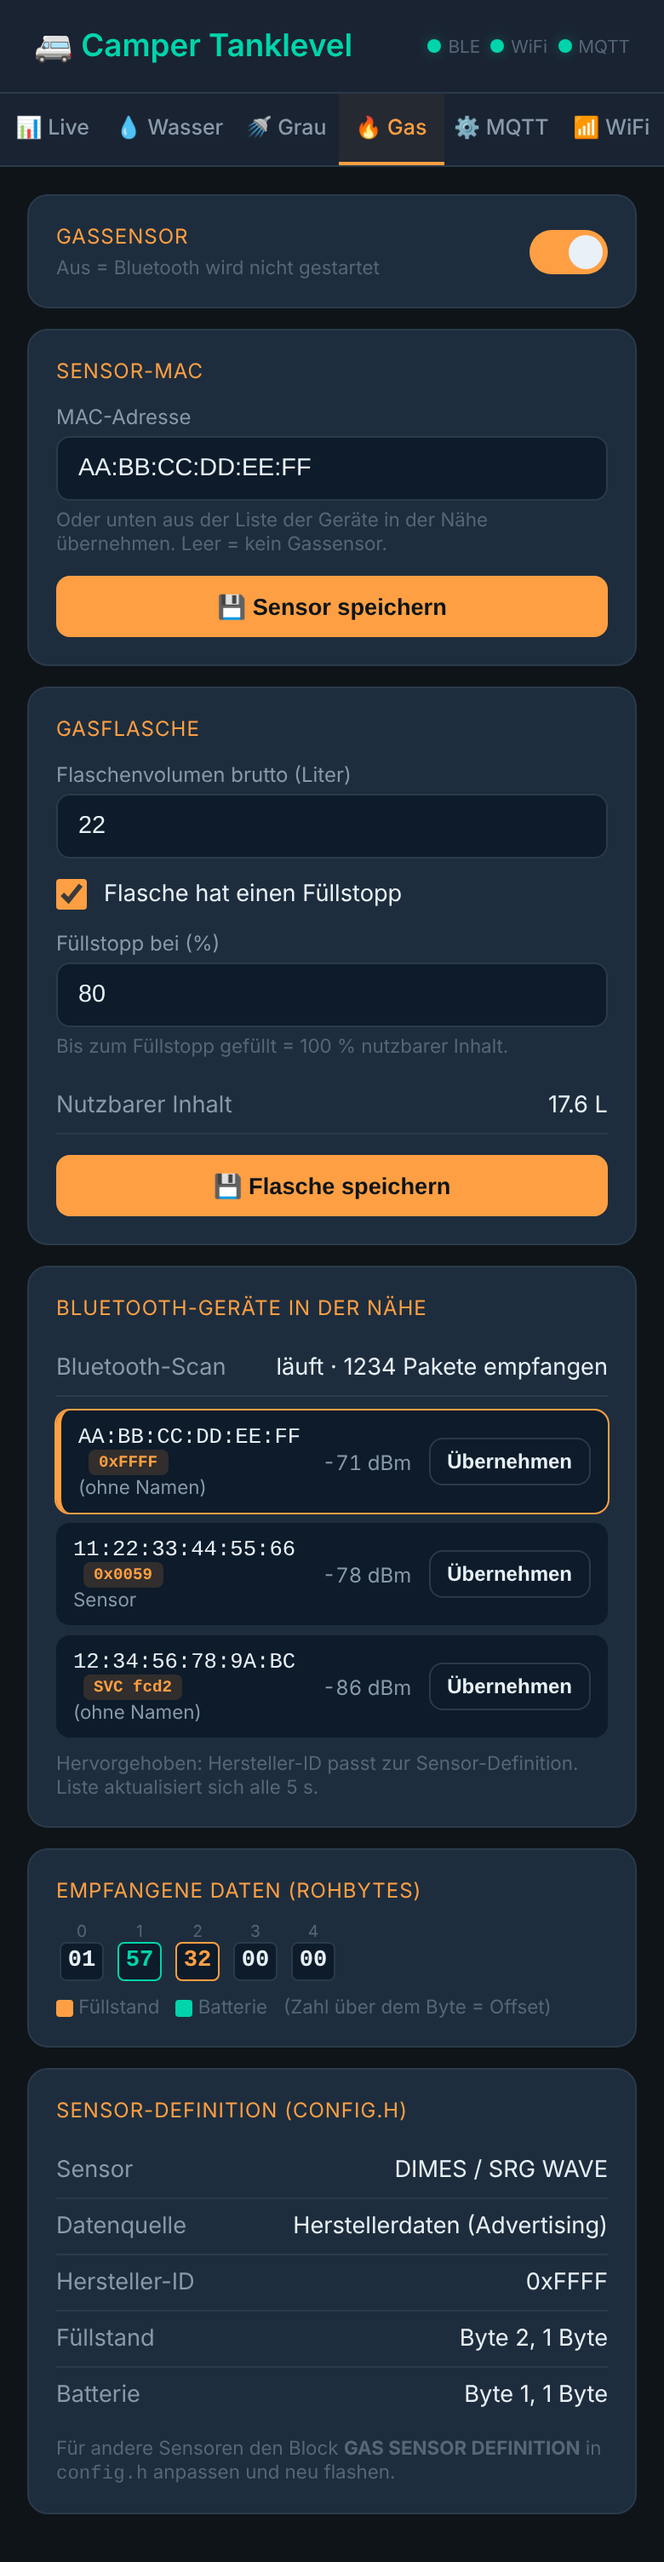
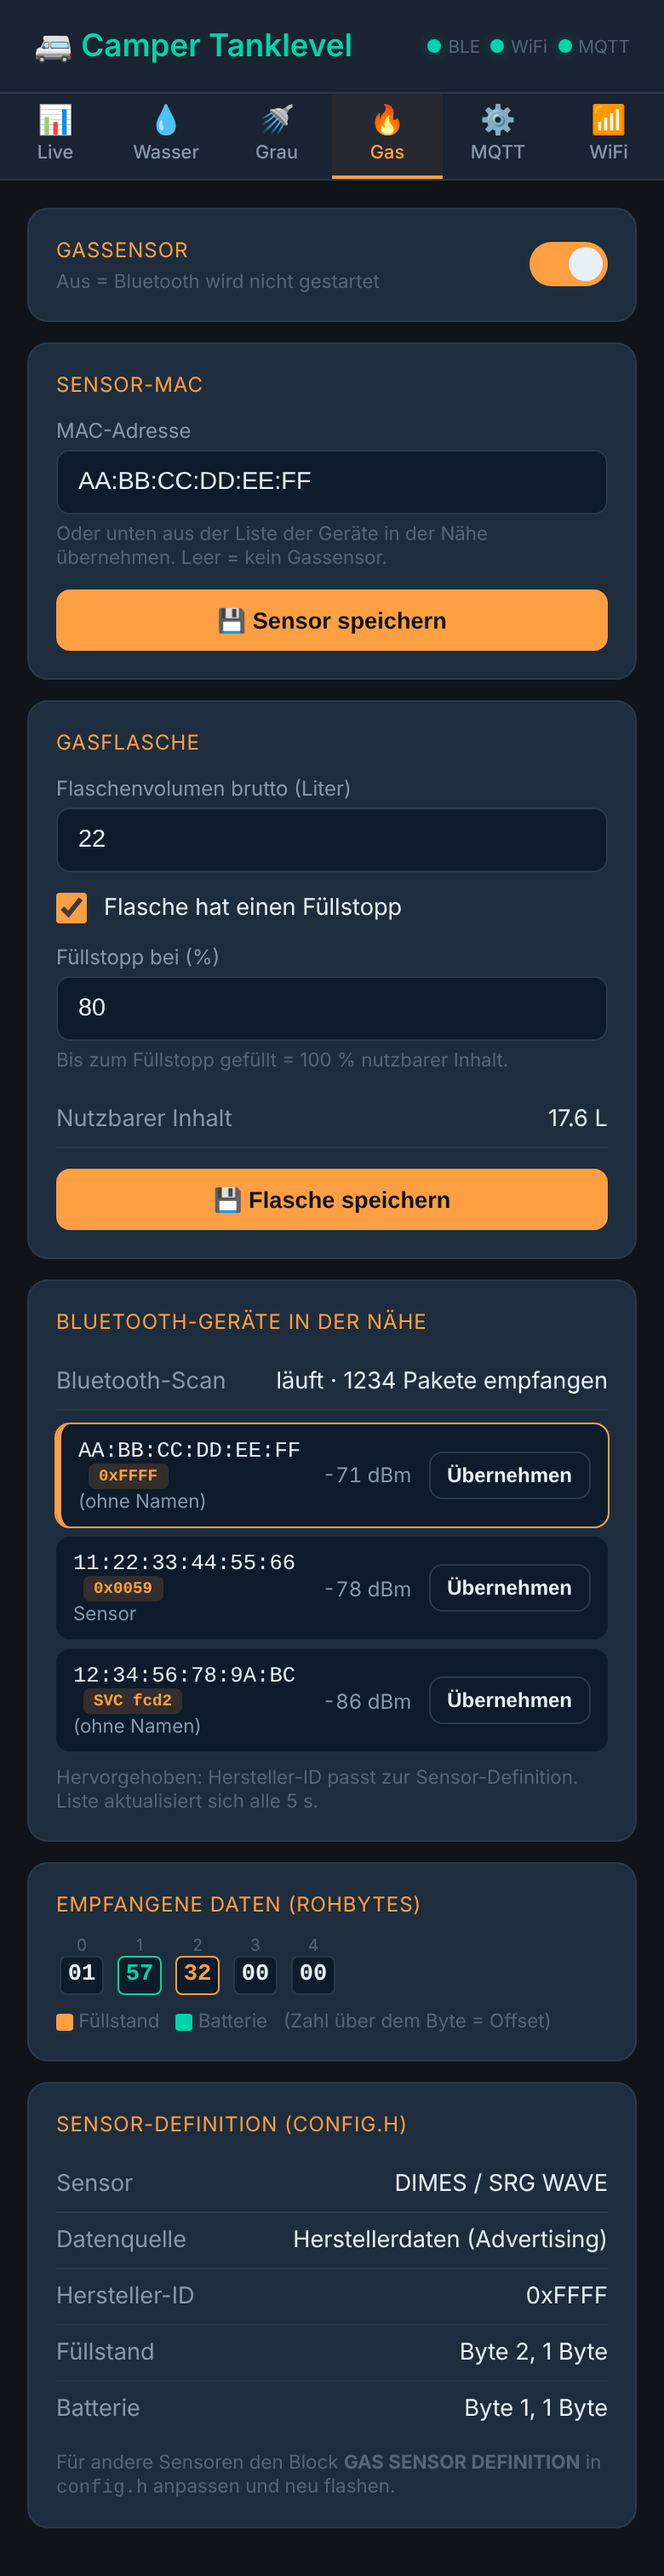
Web UI: gzip compression and compact tab bar
- Web UI source moves to web/index.html; data/ only holds index.html.gz
  (about 1/4 of the size). WiFi runs in modem sleep for BLE coexistence,
  so the smaller page loads much faster, especially on phones. An
  uncompressed index.html is still served for older filesystem images.
- PlatformIO pre-script gzip_web.py regenerates the .gz on every build.
- Tabs show the icon above the label and fit down to 320 px; the header
  title stays on one line on small phones. Screenshots re-rendered.

Claude-Session: https://claude.ai/code/session_01KAMQ1XBs6Wu85SXXrHYjm7

diff --git a/_arduino/camper_tanklevel/web/index.html b/_arduino/camper_tanklevel/web/index.html
@@ -40,10 +40,13 @@ body {
 .status-dot.active { background: var(--success); box-shadow: 0 0 8px var(--water-glow); }
 .status-dot.warning { background: var(--warning); }
 .tabs { display: flex; background: var(--bg-secondary); border-bottom: 1px solid var(--border); overflow-x: auto; }
+/* Icon above the label: all tabs fit even on small phones (320 px) */
 .tab {
-    flex: 1; padding: 12px 6px; text-align: center; font-size: 0.78rem; font-weight: 500;
+    flex: 1; min-width: 0; padding: 8px 1px 7px; text-align: center; font-size: 0.68rem; font-weight: 500; line-height: 1.2;
+    display: flex; flex-direction: column; align-items: center; gap: 3px;
     color: var(--text-secondary); cursor: pointer; border-bottom: 2px solid transparent; transition: all 0.2s; white-space: nowrap;
 }
+.tab .ico { font-size: 1.05rem; line-height: 1; }
 .tab.active { color: var(--accent); border-bottom-color: var(--accent); background: rgba(0,212,170,0.05); }
 .tab.gas.active { color: var(--gas); border-bottom-color: var(--gas); background: rgba(255,159,67,0.05); }
 .tab-content { display: none; padding: 16px; }
@@ -169,6 +172,12 @@ code { font-family: ui-monospace, Menlo, monospace; }
 .toast { position: fixed; bottom: 80px; left: 50%; transform: translateX(-50%) translateY(100px); background: var(--bg-card); border: 1px solid var(--accent); border-radius: 8px; padding: 10px 20px; font-size: 0.85rem; color: var(--accent); opacity: 0; transition: all 0.3s; z-index: 999; }
 .toast.show { transform: translateX(-50%) translateY(0); opacity: 1; }
 
+/* Small phones: keep the title on one line */
+@media (max-width: 374px) {
+    .header { padding: 14px 12px; gap: 8px; }
+    .header h1 { font-size: 1rem; white-space: nowrap; }
+    .status-dots { gap: 4px; font-size: 0.6rem; }
+}
 @media (min-width: 600px) { body { display: flex; justify-content: center; } .app-wrap { width: 100%; max-width: 520px; } }
 </style>
 </head>
@@ -184,12 +193,12 @@ code { font-family: ui-monospace, Menlo, monospace; }
     </div>
 
     <div class="tabs">
-        <div class="tab active" data-tab="live">📊 Live</div>
-        <div class="tab" data-tab="water">💧 Wasser</div>
-        <div class="tab grey" data-tab="grey">🚿 Grau</div>
-        <div class="tab gas" data-tab="gas">🔥 Gas</div>
-        <div class="tab" data-tab="mqtt">⚙ MQTT</div>
-        <div class="tab" data-tab="wifi">📶 WiFi</div>
+        <div class="tab active" data-tab="live"><span class="ico">📊</span><span>Live</span></div>
+        <div class="tab" data-tab="water"><span class="ico">💧</span><span>Wasser</span></div>
+        <div class="tab grey" data-tab="grey"><span class="ico">🚿</span><span>Grau</span></div>
+        <div class="tab gas" data-tab="gas"><span class="ico">🔥</span><span>Gas</span></div>
+        <div class="tab" data-tab="mqtt"><span class="ico">⚙</span><span>MQTT</span></div>
+        <div class="tab" data-tab="wifi"><span class="ico">📶</span><span>WiFi</span></div>
     </div>
 
     <!-- LIVE TAB -->

diff --git a/_arduino/camper_tanklevel/webserver.cpp b/_arduino/camper_tanklevel/webserver.cpp
@@ -242,12 +242,19 @@ void webserverInit() {
 
     // Serve ONLY index.html. Serving the whole filesystem would expose /config.json
     // (WiFi and MQTT credentials) to everybody in the network.
+    // The web UI is stored gzip compressed (about 1/4 of the size): loads much faster,
+    // because WiFi runs in modem sleep for the Bluetooth coexistence.
     server.on("/", HTTP_GET, [](AsyncWebServerRequest* request) {
-        if (fsReady && LittleFS.exists("/index.html")) {
-            request->send(LittleFS, "/index.html", "text/html");
+        if (fsReady && LittleFS.exists("/index.html.gz")) {
+            AsyncWebServerResponse* response = request->beginResponse(LittleFS, "/index.html.gz", "text/html");
+            response->addHeader("Content-Encoding", "gzip");
+            response->addHeader("Cache-Control", "no-cache");
+            request->send(response);
+        } else if (fsReady && LittleFS.exists("/index.html")) {
+            request->send(LittleFS, "/index.html", "text/html");   // Uncompressed (older filesystem image)
         } else {
             request->send(200, "text/html",
-                "<h1>Camper Tanklevel</h1><p>Please upload index.html to LittleFS.</p>");
+                "<h1>Camper Tanklevel</h1><p>Please upload the LittleFS image (data/index.html.gz).</p>");
         }
     });
 

diff --git a/_platformio/gzip_web.py b/_platformio/gzip_web.py
@@ -1,0 +1,20 @@
+# PlatformIO pre-script: compresses web/index.html into data/index.html.gz,
+# so "Upload Filesystem Image" always ships the current web UI.
+import gzip
+import os
+
+Import("env")  # noqa: F821 (provided by PlatformIO)
+
+project = env.subst("$PROJECT_DIR")  # noqa: F821
+src = os.path.join(project, "..", "_arduino", "camper_tanklevel", "web", "index.html")
+dst = os.path.join(project, "..", "_arduino", "camper_tanklevel", "data", "index.html.gz")
+
+with open(src, "rb") as f:
+    html = f.read()
+# mtime=0 keeps the output identical for identical input (no git noise)
+data = gzip.compress(html, compresslevel=9, mtime=0)
+old = open(dst, "rb").read() if os.path.exists(dst) else b""
+if data != old:
+    with open(dst, "wb") as f:
+        f.write(data)
+    print("[web] index.html.gz updated (%d -> %d bytes)" % (len(html), len(data)))

diff --git a/_arduino/camper_tanklevel/config.h b/_arduino/camper_tanklevel/config.h
@@ -6,7 +6,7 @@
 // ============================================================
 // GENERAL CONSTANTS
 // ============================================================
-#define FW_VERSION            "1.2.0"
+#define FW_VERSION            "1.2.1"
 
 #define DEFAULT_AP_SSID       "Camper-Tanklevel" // Base name; "-XXXXXX" (last 3 MAC bytes) is appended
 #define DEFAULT_AP_PASSWORD   "tanklevel1234"    // Test placeholder (min. 8 characters) - change in the web UI

diff --git a/README.md b/README.md
@@ -39,7 +39,9 @@ Die Bilder zeigen Beispieldaten.
 ## Ordner
 
 ```
-_arduino/camper_tanklevel/   Sketch für die Arduino IDE (.ino + .cpp/.h + data/index.html)
+_arduino/camper_tanklevel/        Sketch für die Arduino IDE (.ino + .cpp/.h)
+_arduino/camper_tanklevel/web/    Quelle der Web-Oberfläche (index.html)
+_arduino/camper_tanklevel/data/   LittleFS-Inhalt: index.html.gz (komprimiert, wird hochgeladen)
 _platformio/                 platformio.ini, nutzt dieselben Quellen
 ```
 
@@ -49,7 +51,7 @@ _platformio/                 platformio.ini, nutzt dieselben Quellen
 | `water_sensor.cpp` | ADC für Frisch- und Grauwasser, gleitender Mittelwert, Interpolation über die Matrix |
 | `gas_sensor.cpp` | NimBLE-Scan, Dekodierung, Geräteliste, Füllstopp |
 | `mqtt_ha.cpp` | MQTT, HA-Discovery, Filter-Schalter |
-| `webserver.cpp` | Web-UI, REST-API, Konfiguration in LittleFS |
+| `webserver.cpp` | Web-UI (gzip), REST-API, Konfiguration in LittleFS |
 | `wifi_manager.cpp` | WLAN mit AP-Fallback (Modem-Sleep für WiFi/BLE-Koexistenz) |
 
 ## Hardware
@@ -103,7 +105,16 @@ Board-Paket: esp32 von Espressif, 3.x (getestet 3.3.9).
 2. `camper_tanklevel.ino` öffnen, Partition Scheme prüfen, hochladen.
 3. Serial Monitor schließen, `Cmd+Shift+P` → **Upload LittleFS to Pico/ESP8266/ESP32** (Plugin [arduino-littlefs-upload](https://github.com/earlephilhower/arduino-littlefs-upload)).
 
-Der LittleFS-Upload überschreibt die gespeicherte Konfiguration. Spätere Firmware-Updates gehen auch per OTA (`camper-tanklevel` unter Netzwerk-Ports).
+Der LittleFS-Upload überschreibt die gespeicherte Konfiguration.
+
+**Web-Oberfläche ändern:** Die Quelle ist `web/index.html`. Hochgeladen wird die komprimierte `data/index.html.gz` (ca. ein Viertel der Größe, lädt auf dem Handy deutlich schneller). Nach einer Änderung neu packen, dann LittleFS hochladen:
+
+```
+cd _arduino/camper_tanklevel
+gzip -9 -n -c web/index.html > data/index.html.gz
+```
+
+PlatformIO erledigt das automatisch bei jedem Build (`_platformio/gzip_web.py`). Spätere Firmware-Updates gehen auch per OTA (`camper-tanklevel` unter Netzwerk-Ports).
 
 ## Erstbenutzung
 
@@ -168,6 +179,7 @@ Die laufende Version steht in der Web-UI im Tab **WiFi** und in Home Assistant i
 
 | Version | Änderungen |
 | --- | --- |
+| 1.2.1 | Web-UI gzip-komprimiert (Quelle jetzt in `web/`), kompakte Tab-Leiste (Symbol über Text, passt bis 320 px) |
 | 1.2.0 | Optionaler Grauwasser-Sensor an GPIO1: Votronic Tankelektrode oder Tank-Sensor FL (mit Leer/Voll-Einlernen), eigene Tankgröße, Matrix und Filter |
 | 1.1.0 | Sensoren einzeln abschaltbar (`config.h` und Web-UI), AP-Name mit MAC-Endung, Live-Seite nur mit Anzeigen, Filter im Tab Wasser |
 | 1.0.0 | Erste kombinierte Version aus camper-waterlevel und camper-gaslevel |
